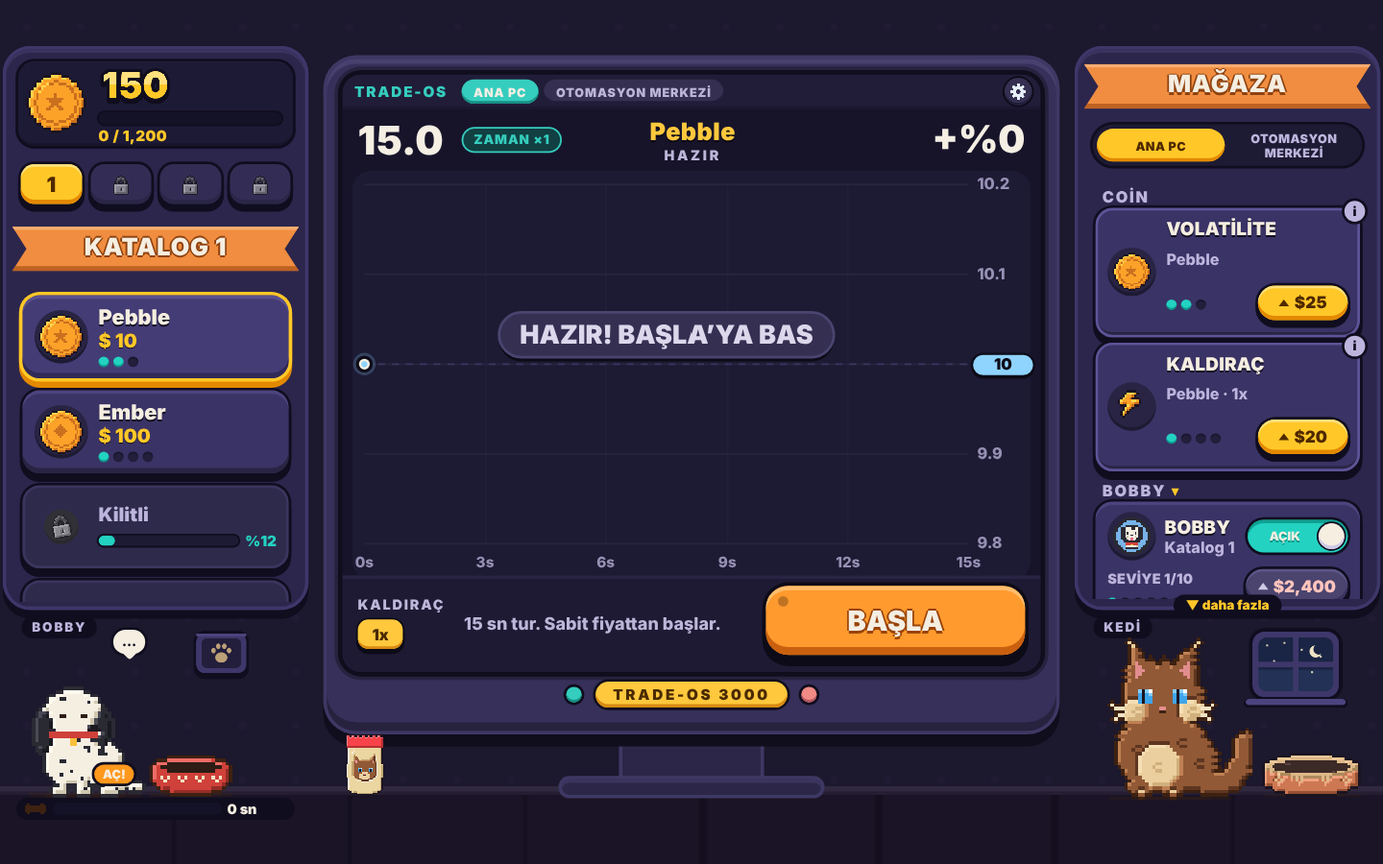
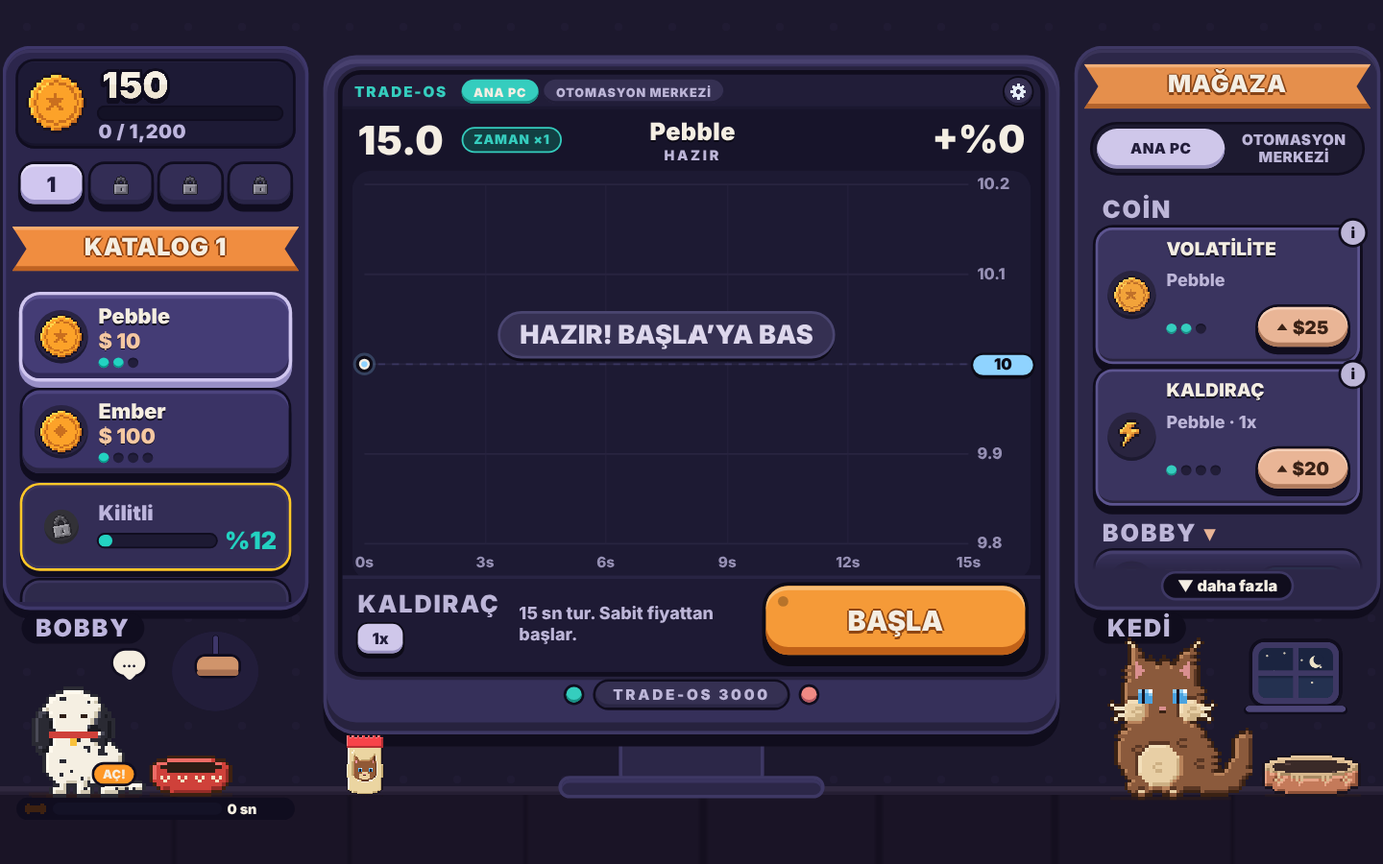
Tasarım Tur2 Adım 2: sol panel + mağaza, Ortak tavsiye 1 uygulandı — smoke 63/63
Claude-Session: https://claude.ai/code/session_01VDVDeJVYoXzWZHeVKGLAfX

diff --git a/index.html b/index.html
@@ -754,6 +754,91 @@ body.rm .pl{animation:none!important}
 #right .sc.bob .br .sg i{flex-basis:11px!important;height:11px!important}#right .sc.bob .br .sg{gap:4px!important}
 #right .sc.bob .br.en .sg{gap:0!important}
 #right .sc.bob .bh .sm{min-width:0}
+
+/* =====================================================================
+   TUR 2 / ADIM 2 — sol panel + mağaza, tek altın kuralı, Ortak tavsiye 1
+   Renk anlamları: ALTIN = yalnız "sıradaki hedef" (sıradaki kilitli coin kartında ince, sabit kenar).
+   ŞEFTALİ = para / alınabilir fiyat. LİLA-KREM = seçili olan (coin kartı, sekme). TURKUAZ = açık / ilerleme / kilit açma.
+   SOLUK = alınamaz. Turuncu (BAŞLA) %10 daha az doygun. Etiketler telefona hazırlık için büyütüldü (≥28 px sahne).
+   ===================================================================== */
+:root{--k-or:#F59A38;--k-ord:#C06118;--k-pe:#E9B596;--k-ped:#AF7A5C;--k-pel:#F5D0B8;--k-pet:#3A2216;--k-mon:#F0C9A8;
+ --k-li:#CFC7EA;--k-lid:#9890C0;--k-lil:#E4DEF5;--k-lit:#221D3A}
+/* bakiye plakası: para krem (altın değil); hedef satırı ikincil */
+#cnx{top:72px!important;font-size:22px!important;color:var(--k-tx2)!important}
+#cbar{top:56px!important}
+/* katalog sekmeleri: seçili = lila-krem */
+.tb.on,#tabs .tb.on{background:var(--k-li)!important;color:var(--k-lit)!important;box-shadow:0 0 0 3px var(--k-ol),0 6px 0 3px var(--k-ol),inset 0 3px 0 var(--k-lil),inset 0 -5px 0 var(--k-lid)!important}
+/* coin kartları */
+.tk.on,body.soft .tk.on{background:#443D6E!important;box-shadow:0 0 0 4px var(--k-li),0 7px 0 4px var(--k-lid),inset 0 4px 0 #5A5288,inset 0 -6px 0 #312B52!important}
+.tk.boss.on{box-shadow:0 0 0 4px var(--k-li),0 7px 0 4px var(--k-lid),inset 0 4px 0 #5D4166,inset 0 -6px 0 #36243C!important}
+.tn .num,#list .tn .num{font-size:24px!important;color:var(--k-mon)!important}
+#list .tk.poor .num{color:var(--k-tx2)!important}
+.tk.lk.nx,body.soft .tk.lk.nx{background:#332E50!important;box-shadow:0 0 0 3px var(--k-au),0 7px 0 3px var(--k-ol),inset 0 0 0 3px #3B3659!important}
+.tk.lk .tn b,#list .tk.lk .tn b{font-size:24px!important}
+.tk .lkp{gap:10px;margin-top:4px}.tk .lkp .lbar{height:14px}.tk .lkp small{font-size:28px;line-height:1;color:var(--k-tq)}
+.tk.lk:not(.nx) img.lkic{opacity:.6}
+/* seviye noktaları */
+.sg.mid i.f,body.soft .sg.mid i.f{background:var(--k-pe)!important}
+/* mağaza başlıkları ve sekmeleri */
+.shd,#right .shd{font-size:28px!important;letter-spacing:2px!important;margin:14px 4px 4px!important}
+.sbt i{color:var(--k-pe)!important}
+#stabs button{height:46px!important;font-size:17px!important}
+#stabs button.on{background:var(--k-li)!important;color:var(--k-lit)!important;box-shadow:inset 0 -4px 0 var(--k-lid)!important}
+.sm .st,body.soft .sm .st{font-size:20px!important}
+/* fiyat hapları: alınabilir = şeftali (canlı), alınamaz = soluk (mevcut [data-dis] stili) */
+#right .go{height:46px!important;font-size:21px!important;background:var(--k-pe)!important;color:var(--k-pet)!important;box-shadow:0 0 0 3px var(--k-ol),0 6px 0 3px var(--k-ol),inset 0 3px 0 var(--k-pel),inset 0 -5px 0 var(--k-ped)!important}
+#right .go:hover{background:#F0C2A6!important}
+#right .go:not([data-dis]):not(.unl):active,#right .go.sq:not(.unl){box-shadow:0 0 0 3px var(--k-ol),0 2px 0 3px var(--k-ol),inset 0 3px 0 var(--k-pel),inset 0 -3px 0 var(--k-ped)!important}
+#right .go i.up{border-bottom-color:var(--k-pet)!important}
+#right .go[data-dis] i.up{border-bottom-color:#CFC9E3!important}
+#right .go.poor span,#right .go.poor:not([data-dis]) span{color:inherit!important}
+#right .go.unl{background:#3FBFB1!important}
+.mx,#right .mx,body.soft .mx{font-size:16px!important;line-height:30px!important}
+.info{width:28px!important;height:28px!important;font-size:17px!important;line-height:28px!important}
+.sw,#right .sw{height:40px!important;font-size:16px!important;line-height:40px!important}
+.sw i{top:5px!important}
+/* Bobby kartı: etiket tam satır, altında noktalar + buton (telefonda büyük etiket sığsın) */
+.br small,#right .sc.bob .br small,body.soft .br small{font-size:28px!important;line-height:1.1!important}
+#right .sc.bob .br{grid-template-rows:auto auto!important;row-gap:8px!important}
+#right .sc.bob .br small{grid-column:1/-1!important;grid-row:1!important}
+#right .sc.bob .br .sg{grid-column:1!important;grid-row:2!important}
+#right .sc.bob .br>.go,#right .sc.bob .br>.mx,#right .sc.bob .br>.pbtn{grid-column:2!important;grid-row:2!important}
+#right .rcb.on{background:#443D6E!important;box-shadow:0 0 0 3px var(--k-li),inset 0 -3px 0 #312B52!important}#right .rcb.on span{color:var(--k-li)!important}
+/* "daha fazla": paneli örtmez — panelin alt kenarının altında durur; liste altta yumuşakça kaybolur */
+#shint,body.soft #shint{bottom:248px!important;padding:0 16px!important;font:900 18px/28px var(--k-fr)!important;color:var(--k-tx)!important;background:var(--k-ol)!important;box-shadow:0 0 0 3px var(--k-rim)!important}
+#shop,body.soft #shop{padding-bottom:30px!important;-webkit-mask-image:linear-gradient(#000 calc(100% - 26px),transparent);mask-image:linear-gradient(#000 calc(100% - 26px),transparent)}
+/* hayvan alanı etiketleri (BOBBY / KEDİ) */
+.botp .cap,body.soft .botp .cap{font:900 28px/36px var(--k-fr)!important;padding:0 16px!important;top:2px!important}
+/* monitör: altın sayısı bire insin (Ortak tavsiye 1 · madde 2) */
+#hN{color:var(--k-tx)!important}
+.chin span{background:#353052!important;color:var(--k-tx2)!important;box-shadow:0 0 0 3px var(--k-ol),inset 0 -4px 0 #2A2644!important}
+#lvr{font-size:28px!important}#lvr span{line-height:1.1}
+#lvr .pbtn.ac{background:var(--k-li)!important;color:var(--k-lit)!important;box-shadow:0 0 0 2px #0D0B17,0 4px 0 2px #0D0B17,inset 0 -3px 0 var(--k-lid)!important}
+#receipt{box-shadow:0 0 0 4px var(--k-rim),inset 0 -6px 0 #1B1830!important}#receipt h3{color:var(--k-pe)!important}
+#toast div{background:var(--k-pe)!important;color:var(--k-pet)!important}
+#tip{box-shadow:0 0 0 3px var(--k-rim)!important}#tip.sl::after,#tip.sr::after{background:var(--k-rim)!important}
+.tile.add{box-shadow:0 0 0 4px var(--k-pe)!important}
+/* ana düğme: turuncu %10 sakin; SAT kârda nane (▲), zararda nötr kart tonu (▼), alarm yok */
+#main{box-shadow:0 0 0 4px #0D0B17,0 9px 0 4px #0D0B17,inset 0 5px 0 #F8BD75,inset 0 -9px 0 var(--k-ord)!important;text-shadow:0 3px 0 #8E4612,2px 0 0 #8E4612,-2px 0 0 #8E4612,0 -2px 0 #8E4612}
+#main:not(:disabled):active,#main.down{box-shadow:0 0 0 4px #0D0B17,0 3px 0 4px #0D0B17,inset 0 5px 0 #F8BD75,inset 0 -5px 0 var(--k-ord)!important}
+#main.sell{background:#5BC49A!important;color:#0E3326!important;text-shadow:none!important;box-shadow:0 0 0 4px #0D0B17,0 9px 0 4px #0D0B17,inset 0 5px 0 #8EDBBC,inset 0 -9px 0 #2E8C68!important}
+#main.sell.dn{background:#3A345F!important;color:var(--k-tx)!important;text-shadow:none!important;box-shadow:0 0 0 4px #0D0B17,0 9px 0 4px #0D0B17,inset 0 5px 0 #4C4577,inset 0 -9px 0 #29243F!important}
+.mbtn.pri{box-shadow:0 0 0 4px var(--k-ol),0 10px 0 4px var(--k-ol),inset 0 5px 0 #F8BD75,inset 0 -9px 0 var(--k-ord)!important}.mbtn.pri:hover{background:#F6A74E!important}
+/* 6'dan çok seviye: noktalar yerine ince ilerleme hapı (taşma yok, göz daha az sayar) */
+#right .sg:not(.vol):has(>i:nth-child(7)){gap:0!important;height:16px!important;padding:3px!important;border-radius:99px;background:#141224!important;box-shadow:0 0 0 2px var(--k-ol)!important;overflow:hidden;min-width:56px;width:100%;box-sizing:border-box}
+#right .sg:not(.vol):has(>i:nth-child(7)) i{flex:1 1 0!important;height:100%!important;border-radius:0!important;background:transparent!important;box-shadow:none!important}
+#right .sg:not(.vol):has(>i:nth-child(7)) i.f{background:var(--k-tq)!important}
+#right .sg:not(.vol):has(>i:nth-child(7)) i.f:first-child{border-radius:99px 0 0 99px!important}
+#right .sc:not(.bob):not(.rcoin) .sm .sg{min-width:0}
+/* Bobby başlığı: "Katalog 1" kesilmesin */
+#right .sc.bob .bh .st{font-size:18px!important}
+#right .sc.bob .bh .sw{width:104px!important}
+/* sağ panel: eski katmandaki saturate(1.15) doygunluğu gizlice artırıyordu — kapatıldı */
+#right{filter:none!important}
+/* Bobby balonu, büyüyen BOBBY etiketinin altına */
+#bbub{top:46px!important}
+/* "daha fazla" için panelin içinde ayrı alt şerit: hiçbir kartı örtmez */
+#shop,body.soft #shop{margin-bottom:36px!important}
 </style><style>/* === TELEFON: hep yatay oyun (dikeyde 90° döndürülür), sayfa kaymaz, çift dokunuşta büyümez === */
 html,body{position:fixed;inset:0;width:100%;height:100%;overflow:hidden;margin:0;overscroll-behavior:none;-webkit-user-select:none;user-select:none;-webkit-touch-callout:none;-webkit-tap-highlight-color:transparent;-webkit-text-size-adjust:100%}
 *{touch-action:manipulation}canvas,img{-webkit-user-drag:none}#list,#shop,.modal .mp,#mb{touch-action:pan-x pan-y;-webkit-overflow-scrolling:touch}
@@ -1093,12 +1178,12 @@ function wallCanvas(side,night,soft,tw){   /* Tur 2: gece oyun odası — yuvarl
  const K=2,c=document.createElement('canvas');c.width=336*K;c.height=200*K;const x=c.getContext('2d');x.scale(K,K);
  const R=(a,b,w,h,r)=>{x.beginPath();x.moveTo(a+r,b);x.arcTo(a+w,b,a+w,b+h,r);x.arcTo(a+w,b+h,a,b+h,r);x.arcTo(a,b+h,a,b,r);x.arcTo(a,b,a+w,b,r);x.closePath()};
  const OLW='#100D1D',RIM='#3E3864',RIMH='#4C4577',RIMD='#2A2545';
- if(!side){const fx=214,fy=26,fw=58,fh=46;   /* Bobby köşesi: pati resmi (balonla çakışmaz) */
-  R(fx-3,fy-3,fw+6,fh+6+4,13);x.fillStyle=OLW;x.fill();R(fx,fy,fw,fh,10);x.fillStyle=RIM;x.fill();R(fx,fy,fw,4,2);x.fillStyle=RIMH;x.fill();
-  R(fx+6,fy+6,fw-12,fh-12,6);x.fillStyle='#231E38';x.fill();
-  x.fillStyle='#B9A07E';x.beginPath();x.ellipse(fx+fw/2,fy+fh/2+5,7,6,0,0,7);x.fill();
-  [[-9,-3],[-3.5,-8],[3.5,-8],[9,-3]].forEach(q=>{x.beginPath();x.ellipse(fx+fw/2+q[0],fy+fh/2+q[1],2.6,3.2,0,0,7);x.fill()});return c}
- const wx=196,wy=24,ww=100,wh=76;   /* kedi köşesi: pencere */
+ if(!side){   /* Bobby köşesi: düz renkli aplik lamba (sabit, glow yok); ışık lekesi duvardan bir kademe açık */
+  x.fillStyle='#221D37';x.beginPath();x.ellipse(236,70,50,46,0,0,7);x.fill();
+  R(233,28,7,28,3);x.fillStyle=OLW;x.fill();R(234,29,5,26,2);x.fillStyle=RIM;x.fill();
+  R(212,50,54,28,12);x.fillStyle=OLW;x.fill();R(215,53,48,22,9);x.fillStyle='#C99572';x.fill();R(215,68,48,7,3);x.fillStyle='#A27156';x.fill();
+  return c}
+ const wx=196,wy=36,ww=100,wh=72;   /* kedi köşesi: pencere */
  R(wx-4,wy-4,ww+8,wh+8,18);x.fillStyle=OLW;x.fill();R(wx,wy,ww,wh,14);x.fillStyle=RIM;x.fill();
  const ix=wx+7,iy=wy+7,iw=ww-14,ih=wh-14;x.save();R(ix,iy,iw,ih,9);x.clip();
  x.fillStyle=night?'#1B2440':'#5E7FA6';x.fillRect(ix,iy,iw,ih);x.fillStyle=night?'#243150':'#7896B8';x.fillRect(ix,iy+ih*.6,iw,ih*.4);
@@ -1272,8 +1357,8 @@ function numTip(u){const v=Number(u)/1e4,fr=u%10000n,full=(u/10000n).toLocaleStr
 const KF='ui-rounded, "SF Pro Rounded", "Nunito", "Varela Round", "Arial Rounded MT Bold", "Trebuchet MS", system-ui, sans-serif';
 function ckCash(txt){const cv=$('#cashv'),x=cv.getContext('2d');let fs=84;x.font='900 '+fs+'px '+KF;while(x.measureText(txt).width>440&&fs>40){fs-=4;x.font='900 '+fs+'px '+KF}
  const w=Math.ceil(x.measureText(txt).width)+24,h=104;if(cv.width!==w||cv.height!==h){cv.width=w;cv.height=h}x.clearRect(0,0,w,h);x.font='900 '+fs+'px '+KF;x.textBaseline='middle';x.lineJoin='round';
- const y=h/2-2;x.lineWidth=14;x.strokeStyle='#100D1D';x.strokeText(txt,12,y+6);x.fillStyle='#100D1D';x.fillText(txt,12,y+6);x.strokeText(txt,12,y);x.fillStyle='#FFC83D';x.fillText(txt,12,y);
- x.save();x.beginPath();x.rect(0,0,w,y-fs*.08);x.clip();x.fillStyle='#FFE08A';x.fillText(txt,12,y);x.restore()}
+ const y=h/2-2;x.lineWidth=14;x.strokeStyle='#100D1D';x.strokeText(txt,12,y+6);x.fillStyle='#100D1D';x.fillText(txt,12,y+6);x.strokeText(txt,12,y);x.fillStyle='#EDE5D6';x.fillText(txt,12,y);
+ x.save();x.beginPath();x.rect(0,0,w,y-fs*.08);x.clip();x.fillStyle='#F6F0E6';x.fillText(txt,12,y);x.restore()}
 /* para sayacı: kısa count-up */
 let cashD=null,cashAf=0,cashLast='';
 function cashAnim(){cashAf=0;const t=Number(S.cash);cashD=t;   /* v46: para anında güncellenir */
@@ -1289,8 +1374,8 @@ function renderSide(){const k=G.cat;
  const tabs=[0,1,2,3].map(t=>S.co[t]?`<button class="tb ${t===G.cat?'on':''} ${G.unl===t?'unl':''}" data-cat="${t}">${t+1}</button>`:`<button class="tb lk" disabled aria-label="Kilitli katalog">${icn('lock',2)}</button>`).join('');
  let h='';
  for(let i=k*5;i<k*5+5;i++){const c=COINS[i],op=S.open[i];
-  if(!op){let lp='';if(i===S.open.indexOf(0)&&S.co[c.cat]){const pr=Math.floor(Math.min(100,Number((S.tot||0n)*100000n/(c.p*UNLK[c.cat]))/10));lp=`<span class="lkp"><span class="lbar"><i style="width:${Math.max(4,pr)}%"></i></span><small>%${pr}</small></span>`}
-  h+=`<div class="tk lk ${c.boss?'boss':''}"><img class="ci lkic" src="${ICN.lock}" alt=""><div class="tn"><b>Kilitli</b>${lp}</div></div>`;continue}   /* v52: yalnız kilit + Kilitli */
+  if(!op){let lp='',nx='';if(i===S.open.indexOf(0)&&S.co[c.cat]){nx=' nx';const pr=Math.floor(Math.min(100,Number((S.tot||0n)*100000n/(c.p*UNLK[c.cat]))/10));lp=`<span class="lkp"><span class="lbar"><i style="width:${Math.max(4,pr)}%"></i></span><small>%${pr}</small></span>`}
+  h+=`<div class="tk lk ${c.boss?'boss':''}${nx}"><img class="ci lkic" src="${ICN.lock}" alt=""><div class="tn"><b>Kilitli</b>${lp}</div></div>`;continue}   /* v52: yalnız kilit + Kilitli */
   const mx=S.cl[i]===c.max;
   h+=`<div class="tk ${i===G.ci?'on':''} ${c.boss?'boss':''}" data-i="${i}">${i===G.ci?`<img class="ptr" src="${ICN.arrow}" alt="">`:''}<img class="ci" src="${ICONS[i]}" alt=""><div class="tn"><b>${c.n}${mx?' <img class="ic" src="'+ICN.star+'" width="22" height="22" alt="">':''}</b><span class="num">$ ${cp(c.p)}</span>${seg(S.cl[i],c.max)}</div>${c.boss?'<em class="bb">BOSS</em>':''}</div>`}
  const key=tabs+h+G.ci;if(key!==SD){SD=key;$('#tabs').innerHTML=tabs;$('#list').innerHTML=h;$('#sign').textContent=CATN[k];fitPass()}}
@@ -1618,7 +1703,7 @@ const RSPR={};const rSpr=(i,fr)=>RSPR[i+'_'+fr]||(RSPR[i+'_'+fr]=render(robotGri
 function drawTile(i,now){const cv=$('#tc'+i);if(!cv)return;const tile=cv.parentNode,n=S.rb.length;tile.className='tile'+(i===n?' add':i>n?' lock':'');
  const d=window.devicePixelRatio||1,r=cv.getBoundingClientRect(),W=tile.offsetWidth||200,H=tile.offsetHeight||190,w=Math.max(8,Math.round(r.width*d)),hh=Math.max(8,Math.round(r.height*d));if(cv.width!==w||cv.height!==hh){cv.width=w;cv.height=hh}
  const x=cv.getContext('2d'),k=cv.width/W;x.setTransform(k,0,0,k,0,0);x.fillStyle='#1E1A35';x.fillRect(0,0,W,H);x.textBaseline='middle';x.textAlign='center';
- if(i>=n){if(i===n&&n<RMAX){const ok=afford(RSLOT[n]);x.fillStyle='#FFC83D';x.font='900 46px '+KF;x.fillText('+1',W/2,H/2-26);x.font='900 20px '+KF;x.fillText(TT('ROBOT EKLE'),W/2,H/2+10);x.font='900 20px '+KF;x.fillStyle=ok?'#FFC83D':'#F2A6A0';x.fillText('$'+cp(RSLOT[n]),W/2,H/2+34)}
+ if(i>=n){if(i===n&&n<RMAX){const ok=afford(RSLOT[n]);x.fillStyle='#E9B596';x.font='900 46px '+KF;x.fillText('+1',W/2,H/2-26);x.font='900 20px '+KF;x.fillText(TT('ROBOT EKLE'),W/2,H/2+10);x.font='900 20px '+KF;x.fillStyle=ok?'#F0C9A8':'#BDB6D8';x.fillText('$'+cp(RSLOT[n]),W/2,H/2+34)}
   else{x.fillStyle='#5E5888';x.font='900 16px '+KF;x.fillText(TT('BOŞ BÖLME'),W/2,H/2)}x.textAlign='left';return}
  const R=S.rb[i],rt=RBT[i],c=COINS[R.ci],fr=rt?Math.floor(now/420+i)%2:0;x.textAlign='left';x.imageSmoothingEnabled=false;x.drawImage(rSpr(i%6,fr),4,4,30,30);
  x.fillStyle='#FFC83D';x.font='900 15px '+KF;x.fillText('ROBOT-'+(i+1),38,12);x.fillStyle='#BDB6D8';x.font='800 14px '+KF;x.fillText(TT(c.n)+' · '+2**(R.v-1)+'x',38,27);
@@ -1844,7 +1929,7 @@ const I18N={en:{
  "Bobby'nin kemik süresini uzatır.":"Extends Bobby's bone time.",'Tur bitince yenisini kendisi başlatır.':'Starts a new round when one ends.','Oyunu hızlandırır; istediğin an kapatabilirsin.':'Speeds up the game; turn it off anytime.',
  'Robotların otomatik işlem yaptığı merkezi açar.':'Opens the center where robots trade automatically.','Daha büyük ekranlı yeni bilgisayar (görsel yükseltme).':'A new computer with a bigger screen (visual upgrade).','Final: kedinin kabına sürüklenince oyun biter.':"Final: the game ends when dragged to the cat's bowl.",
  'Otomatik işlem yapan yeni bir robot ekler.':'Adds a new robot that trades automatically.','Kedi maması: kaba sürükle, 4 sn tut, +$2.':'Cat food: drag to the bowl, hold 4 s, +$2.','Kemik ver: tıkla ya da kaba sürükle.':'Give bone: click or drag to the bowl.',
- 'Oyna':'Play',"10$ biriktirince Pebble ile ilk trade'ini yapabilirsin. Devam etmek için tıkla":'Save $10 and you can make your first trade with Pebble. Click to continue',"Pebble coinini almak için 10$'a ihtiyacın var. Beni beslemeye devam et, para biriktir! (Yatırım tavsiyesi değildir, miyav.) Devam etmek için tıkla":'You need $10 to buy the Pebble coin. Keep feeding me and save up! (Not investment advice, meow.) Click to continue','Yaşasın! Artık Pebble coinini alabilirsin.':'Yay! Now you can buy the Pebble coin.',"Ama dikkatli ol, coin piyasası biraz canlıdır! BAŞLA'ya bas; fiyat dipteyken AL, tepedeyken SAT. Devam etmek için tıkla":'But be careful, the coin market is a bit lively! Press START; BUY at the dip, SELL at the top. Click to continue','Merak etme, onu sakinleştirmenin bir yolu var… (Devam etmek için tıkla)':'Don\'t worry, there is a way to calm it down… (Click to continue)','İşte mağaza!':'Here is the shop!','VOLATİLİTE seviyesini artırdıkça grafikteki dönüm noktaları azalır, grafik sakinleşir ve doğru anı yakalamak kolaylaşır. KALDIRAÇ seviyesini artırınca kârın da zararın da kaldıraç katı kadar büyür. Devam etmek için tıkla':'Raising the VOLATILITY level reduces the turning points, so the chart calms down and timing gets easier. Raising LEVERAGE multiplies both profit and loss by the leverage. Click to continue','Seviye arttıkça dönüm noktası azalır, grafik sakinleşir.':'Higher level means fewer turning points, a calmer chart.','Kilitli':'Locked','Burası coin piyasası!':'This is the coin market!','Buradaki coinleri alıp satarak daha çok para kazanabilirsin. (Yatırım tavsiyesi değildir, miyav.) Devam etmek için tıkla':'Buy and sell coins here to grow your in-game cash. (Not investment advice, meow.) Click to continue','Grafik biraz agresif mi geldi?':'Was the chart a bit aggressive?','İşte mağaza! Buradan coinin volatilitesini ve kaldıracını artırabilirsin. Devam etmek için tıkla':'Here is the shop! You can raise the coin\'s volatility and leverage here. Click to continue','Paketi tutup kabımın üstüne sürükle, bırak ve biraz bekle. Her mamada para kazanırsın; 5$ kâr edince bilgisayar düzelir.':'Drag the bag over my bowl, drop it and wait a bit. You earn money each time; at $5 profit the computer gets fixed.','Mama paketini al ve kabıma dök!':'Grab the food bag and pour it into my bowl!','Paketi tutup kabımın üstüne sürükle, bırak ve biraz bekle. Her mamada para kazanırsın; 10$ biriktirince bilgisayarı onarabilirsin.':'Drag the bag over my bowl, drop it and wait a bit. You earn money each time; with $10 you can repair the computer.','BİLGİSAYARI ONAR':'REPAIR COMPUTER','Bozuk ekranı tamir et':'Fix the broken screen','Miyav… Çok açım!':'Meow… I am so hungry!','Karnım guruldiyor… Beni besler misin? (Devam etmek için herhangi bir yere tıkla)':'My tummy is rumbling… Will you feed me? (Click anywhere to continue)','Şu mama paketini al!':'Grab that food bag!','Paketi tut ve sürükle.':'Hold the bag and drag it.','…ve kabıma dök!':'…and pour it into my bowl!','Paketi kabımın üstüne bırak ve biraz bekle. Her mamada para kazanırsın; 10$ biriktirince bilgisayarı onarabilirsin.':'Drop the bag over my bowl and wait a bit. You earn money each time; with $10 you can repair the computer.','Miyav! Bilgisayar düzeldi.':'Meow! The computer is fixed.',"Artık trade yapabilirsin: fiyat dipteyken AL, tepedeyken SAT. Pebble'ı oynamak için 10$ gerekir. Devam etmek için tıkla":'Now you can trade: BUY at the dip, SELL at the top. You need $10 to play Pebble. Click to continue','Miyav! Bilgisayarı açtım.':'Meow! I turned on the computer.',"Pebble ile ilk trade'ini yap: fiyat dipteyken AL, tepedeyken SAT. Devam etmek için tıkla":'Make your first trade with Pebble: BUY at the dip, SELL at the top. Click to continue','Miyav… Karnım çok aç!':'Meow… I am so hungry!','Sol alttaki mama paketini kabıma sürükle. Her mamada kâr edersin; 15$ kâr edince bilgisayarı açarım. Devam etmek için tıkla':'Drag the food bag at the bottom left to my bowl. You profit each time; at $15 profit I will turn on the computer. Click to continue','ANA PC':'MAIN PC','Müzik':'Music','OTO-TUR AÇIK':'AUTO-ROUND ON','OTO-TUR KAPALI':'AUTO-ROUND OFF','DURDURULDU':'STOPPED','ROBOT COİNİ':'ROBOT COIN','Tüm robotlar bu coinde işlem yapar':'All robots trade this coin','Doyan hayvanlar':'Fed animals','Aç hayvanların üstüne mama dök! Basılı tut: daha bol döker.':'Pour food onto hungry animals! Hold to pour more.','Hav hav! Karnımız tok, sağ ol!':'Woof woof! Our bellies are full, thank you!','Teşekkürler! Bütün sokak hayvanlarını doyurdun.':'Thank you! You fed all the street animals.',"Bobby'yi beslemediğin için küstü ve gitti…":'Bobby got upset because you didn\'t feed him, and left…','Mağazadan yeniden sahiplenebilirsin. Devam etmek için tıkla':'You can adopt him again in the shop. Click to continue','OTOMASYON MERKEZİ':'AUTOMATION CENTER','Robot merkezi':'Robot center','Çıkış':'Quit Game','Geri':'Back','Görüşürüz!':'See you!','Menüye dön':'Back to menu','Ses':'Sound','Kedi Maması':'Cat Food','Sabit fiyattan başlar.':'Starts at a fixed price.','Ayarlar ve işlem geçmişi':'Settings and trade history',
+ 'Oyna':'Play','AL ·':'BUY ·','SAT ·':'SELL ·',"10$ biriktirince Pebble ile ilk trade'ini yapabilirsin. Devam etmek için tıkla":'Save $10 and you can make your first trade with Pebble. Click to continue',"Pebble coinini almak için 10$'a ihtiyacın var. Beni beslemeye devam et, para biriktir! (Yatırım tavsiyesi değildir, miyav.) Devam etmek için tıkla":'You need $10 to buy the Pebble coin. Keep feeding me and save up! (Not investment advice, meow.) Click to continue','Yaşasın! Artık Pebble coinini alabilirsin.':'Yay! Now you can buy the Pebble coin.',"Ama dikkatli ol, coin piyasası biraz canlıdır! BAŞLA'ya bas; fiyat dipteyken AL, tepedeyken SAT. Devam etmek için tıkla":'But be careful, the coin market is a bit lively! Press START; BUY at the dip, SELL at the top. Click to continue','Merak etme, onu sakinleştirmenin bir yolu var… (Devam etmek için tıkla)':'Don\'t worry, there is a way to calm it down… (Click to continue)','İşte mağaza!':'Here is the shop!','VOLATİLİTE seviyesini artırdıkça grafikteki dönüm noktaları azalır, grafik sakinleşir ve doğru anı yakalamak kolaylaşır. KALDIRAÇ seviyesini artırınca kârın da zararın da kaldıraç katı kadar büyür. Devam etmek için tıkla':'Raising the VOLATILITY level reduces the turning points, so the chart calms down and timing gets easier. Raising LEVERAGE multiplies both profit and loss by the leverage. Click to continue','Seviye arttıkça dönüm noktası azalır, grafik sakinleşir.':'Higher level means fewer turning points, a calmer chart.','Kilitli':'Locked','Burası coin piyasası!':'This is the coin market!','Buradaki coinleri alıp satarak daha çok para kazanabilirsin. (Yatırım tavsiyesi değildir, miyav.) Devam etmek için tıkla':'Buy and sell coins here to grow your in-game cash. (Not investment advice, meow.) Click to continue','Grafik biraz agresif mi geldi?':'Was the chart a bit aggressive?','İşte mağaza! Buradan coinin volatilitesini ve kaldıracını artırabilirsin. Devam etmek için tıkla':'Here is the shop! You can raise the coin\'s volatility and leverage here. Click to continue','Paketi tutup kabımın üstüne sürükle, bırak ve biraz bekle. Her mamada para kazanırsın; 5$ kâr edince bilgisayar düzelir.':'Drag the bag over my bowl, drop it and wait a bit. You earn money each time; at $5 profit the computer gets fixed.','Mama paketini al ve kabıma dök!':'Grab the food bag and pour it into my bowl!','Paketi tutup kabımın üstüne sürükle, bırak ve biraz bekle. Her mamada para kazanırsın; 10$ biriktirince bilgisayarı onarabilirsin.':'Drag the bag over my bowl, drop it and wait a bit. You earn money each time; with $10 you can repair the computer.','BİLGİSAYARI ONAR':'REPAIR COMPUTER','Bozuk ekranı tamir et':'Fix the broken screen','Miyav… Çok açım!':'Meow… I am so hungry!','Karnım guruldiyor… Beni besler misin? (Devam etmek için herhangi bir yere tıkla)':'My tummy is rumbling… Will you feed me? (Click anywhere to continue)','Şu mama paketini al!':'Grab that food bag!','Paketi tut ve sürükle.':'Hold the bag and drag it.','…ve kabıma dök!':'…and pour it into my bowl!','Paketi kabımın üstüne bırak ve biraz bekle. Her mamada para kazanırsın; 10$ biriktirince bilgisayarı onarabilirsin.':'Drop the bag over my bowl and wait a bit. You earn money each time; with $10 you can repair the computer.','Miyav! Bilgisayar düzeldi.':'Meow! The computer is fixed.',"Artık trade yapabilirsin: fiyat dipteyken AL, tepedeyken SAT. Pebble'ı oynamak için 10$ gerekir. Devam etmek için tıkla":'Now you can trade: BUY at the dip, SELL at the top. You need $10 to play Pebble. Click to continue','Miyav! Bilgisayarı açtım.':'Meow! I turned on the computer.',"Pebble ile ilk trade'ini yap: fiyat dipteyken AL, tepedeyken SAT. Devam etmek için tıkla":'Make your first trade with Pebble: BUY at the dip, SELL at the top. Click to continue','Miyav… Karnım çok aç!':'Meow… I am so hungry!','Sol alttaki mama paketini kabıma sürükle. Her mamada kâr edersin; 15$ kâr edince bilgisayarı açarım. Devam etmek için tıkla':'Drag the food bag at the bottom left to my bowl. You profit each time; at $15 profit I will turn on the computer. Click to continue','ANA PC':'MAIN PC','Müzik':'Music','OTO-TUR AÇIK':'AUTO-ROUND ON','OTO-TUR KAPALI':'AUTO-ROUND OFF','DURDURULDU':'STOPPED','ROBOT COİNİ':'ROBOT COIN','Tüm robotlar bu coinde işlem yapar':'All robots trade this coin','Doyan hayvanlar':'Fed animals','Aç hayvanların üstüne mama dök! Basılı tut: daha bol döker.':'Pour food onto hungry animals! Hold to pour more.','Hav hav! Karnımız tok, sağ ol!':'Woof woof! Our bellies are full, thank you!','Teşekkürler! Bütün sokak hayvanlarını doyurdun.':'Thank you! You fed all the street animals.',"Bobby'yi beslemediğin için küstü ve gitti…":'Bobby got upset because you didn\'t feed him, and left…','Mağazadan yeniden sahiplenebilirsin. Devam etmek için tıkla':'You can adopt him again in the shop. Click to continue','OTOMASYON MERKEZİ':'AUTOMATION CENTER','Robot merkezi':'Robot center','Çıkış':'Quit Game','Geri':'Back','Görüşürüz!':'See you!','Menüye dön':'Back to menu','Ses':'Sound','Kedi Maması':'Cat Food','Sabit fiyattan başlar.':'Starts at a fixed price.','Ayarlar ve işlem geçmişi':'Settings and trade history',
  'Bilgisayar onarıldı · Pebble açıldı':'Computer repaired · Pebble unlocked','Bobby sahiplenildi':'Bobby adopted','Oto-Tur satın alındı':'Auto-Round bought','Bilgisayar Seviye 2':'Computer Level 2','Bilgisayar onarıldı':'Computer repaired','Kedi Maması (Final) satın alındı':'Cat Food (Final) bought','Otomasyon Merkezi':'Automation Center','Bobby Katalog':'Bobby Catalog','Kemik':'Bone','Kapasite':'Capacity','Robot':'Robot','ROBOT DEPOSU':'ROBOT DEPOT','Fiyat':'Price','Volatilite':'Volatility','dönüm noktası':'turning points','Sen ×':'You ×','Bobby ×':'Bobby ×','· Nakit':'· Cash','· Bobby':'· Bobby'},
  pat:[[/^KATALOG (\d+)$/,'CATALOG $1'],[/^Katalog (\d+)$/,'Catalog $1'],[/^SONRAKİ COİN %(\d+)$/,'NEXT COIN %$1'],[/^ZAMAN ×(\d+)$/,'TIME ×$1'],[/^SEVİYE (\d+)\/(\d+)$/,'LEVEL $1/$2'],[/^KALDIRAÇ (\d+)x$/,'LEVERAGE $1x'],
   [/^(\d+) sn \/ kemik · Lv(\d+)$/,'$1 s / bone · Lv$2'],[/^([\d.]+) dk · Lv(\d+)$/,'$1 min · Lv$2'],[/^([\d.]+) sn$/,'$1 s'],[/^(\d+)x açık$/,'$1x on'],[/^(\d+)x kapalı$/,'$1x off'],[/^DOĞRULUK (\d+)\/(\d+)$/,'ACCURACY $1/$2'],[/^KALDIRAÇ (\d+)\/(\d+)$/,'LEVERAGE $1/$2'],
@@ -2211,7 +2296,7 @@ function ui(){if(!S.hintOff&&(S.open[1]||S.tot>=D(50)))S.hintOff=1;if(S.set.test
  if(S.over||G.st==='over'){txt='OYUN BİTTİ';dis=true}
  else if(G.st==='ready'){const ok=S.cash>=c.p;dis=!ok;note=S.cash<c.p?(G.ci===0&&!S.hintOff?'En az $'+cp(c.p)+' gerek. Kedi mamasını kaba götür!':'Yetersiz bakiye · Gerekli: $'+cp(c.p)):'15 sn tur'+(spd()>1?' · oyun saati ×'+spd():'')+'. Sabit fiyattan başlar.'}
  else if(G.st==='active'){if(!G.pt){const ok=S.cash>=stakeOf('player',G.ci);txt='AL · '+fm(G.curU)+(G.lev>1?' ('+G.lev+'x)':'');cls='buy';dis=!ok;note=G.msg||(ok?'Pozisyon: $'+cp(stakeOf('player',G.ci))+' (katalog fiyatı).':'Yeterli nakit yok.')}
-  else{const tr=G.pt,v=eq(tr,G.curU);txt='SAT · '+fm(v)+' ('+pcs(Number(v-tr.st)/Number(tr.st))+')';cls='sell '+(v>=tr.st?'up':'dn');note=(tr.lv>1?'Likidasyon: '+fm(tr.b*BigInt(tr.lv-1)/BigInt(tr.lv))+'. ':'')+"15. sn'de otomatik satılır."}}
+  else{const tr=G.pt,v=eq(tr,G.curU);txt='SAT · '+fm(v)+' ('+(v>=tr.st?'▲ ':'▼ ')+pcs(Number(v-tr.st)/Number(tr.st))+')';cls='sell '+(v>=tr.st?'up':'dn');note=(tr.lv>1?'Likidasyon: '+fm(tr.b*BigInt(tr.lv-1)/BigInt(tr.lv))+'. ':'')+"15. sn'de otomatik satılır."}}
  else{txt='YENİ TUR';note=S.auto&&S.autoOn&&S.cash>=c.p?'Oto-Tur: '+(+(OTD[S.al-1]/spd()).toFixed(2))+' sn sonra yeni tur…':''}
  if(M.className!==cls)M.className=cls;if(lab.textContent!==txt){lab.textContent=txt;let s=36;lab.style.fontSize='';M.style.fontSize='';while(M.scrollWidth>M.clientWidth&&s>18){s--;M.style.fontSize=s+'px'}}M.disabled=dis;
  $('#led').classList.toggle('on',!!(S.auto&&S.autoOn));
@@ -2246,8 +2331,8 @@ function drawChart(now){const cv=$('#cv'),x=cv.getContext('2d'),c=COINS[G.ci];x.
  x.setLineDash([8,8]);x.lineWidth=2;x.strokeStyle='#3A3660';x.beginPath();x.moveTo(L,Y(sp));x.lineTo(R,Y(sp));x.stroke();x.setLineDash([]);
  const pos=G.pt&&G.st==='active'?G.pt:null,ref=pos?pos.bf:null,up=pos?G.cur>=ref:true,cc=pos?(up?'#5FE0B8':'#F08A84'):'#8FD3FF',cg=pos?(up?'95,224,184':'240,138,132'):'143,211,255';
  /* alış fiyatı çizgisi (pozisyon açıkken): kâr/zarar referansı */
- if(pos){const by=Y(ref);x.setLineDash([10,7]);x.lineWidth=2.5;x.strokeStyle='#FFC83D';x.beginPath();x.moveTo(L,by);x.lineTo(R,by);x.stroke();x.setLineDash([]);
-  const lb=LANG==='en'?'BUY':'ALIŞ';x.font='900 14px '+KF;const w=x.measureText(lb).width+18,ly=Math.min(B-12,Math.max(T+12,by));const lx=R-w-8,lyy=ly-30<T?ly+18:ly-18;rr(x,lx,lyy-12,w,24,12);x.fillStyle='#FFC83D';x.fill();x.lineWidth=2.5;x.strokeStyle=OLC;x.stroke();x.fillStyle='#4A2A00';x.fillText(lb,lx+9,lyy+1)}
+ if(pos){const by=Y(ref);x.setLineDash([9,7]);x.lineWidth=2;x.strokeStyle='#A89FC8';x.beginPath();x.moveTo(L,by);x.lineTo(R,by);x.stroke();x.setLineDash([]);
+  const lb=LANG==='en'?'BUY':'ALIŞ';x.font='900 14px '+KF;const w=x.measureText(lb).width+18,ly=Math.min(B-12,Math.max(T+12,by));const lx=R-w-8,lyy=ly-30<T?ly+18:ly-18;rr(x,lx,lyy-12,w,24,12);x.fillStyle='#353052';x.fill();x.lineWidth=2;x.strokeStyle=OLC;x.stroke();x.fillStyle='#D3CCEA';x.fillText(lb,lx+9,lyy+1)}
  let ex=X(0),ey=Y(sp);
  if(act){const pts=ys.map((v,i)=>[X(tn*i/N),Y(v)]);ex=pts[pts.length-1][0];ey=pts[pts.length-1][1];
   const path=()=>{x.beginPath();pts.forEach((p,i)=>i?x.lineTo(p[0],p[1]):x.moveTo(p[0],p[1]))};

diff --git a/docs/tasarim/canli/tur-2.md b/docs/tasarim/canli/tur-2.md
@@ -67,3 +67,45 @@ Plan (adımlar): 1) Koyu arka plan + oda; 2) Sol panel + mağaza kartları; 3) M
 4. BAŞLA/SAT turuncusunda doygunluğu yaklaşık %8-10 azalt; boyut ve konum aynı kalsın, animasyon/yanıp sönme yok.
 5. Telefonda tüm etiketler (KALDIRAÇ, BOBBY, KEDİ, COİN, SEVİYE) en az 12 px, kontrast en az 4.5:1; kilitli kartın "%12" ilerlemesi en az 12 px ve çubuk yüksekliği en az 6 px olsun (A'nın merak isteği).
 6. Odaya düz renkli, sabit, küçük bir lamba lekesi eklenebilir (parlaklığı duvardan en fazla bir kademe açık, glow ve animasyon yok).
+
+## Adım 2 — Tasarımcı: Danışma 2
+
+**Renk dili (her rengin tek bir anlamı var)**
+- **Altın:** yalnızca "sıradaki hedef". Sol listede sıradaki kilitli coin kartının ince (3 px) ve sabit kenarı. Ekrandaki tek altın bu.
+- **Şeftali:** para ve alınabilir fiyat (fiyat hapları, coin fiyat yazısı).
+- **Lila-krem:** seçili olan (coin kartı halkası, katalog sekmesi, ANA PC/OTOMASYON sekmesi, kaldıraç "1x").
+- **Turkuaz:** açık / ilerleme / kilit açma (toggle, ilerleme çubukları, kilit açma hapı).
+- **Soluk:** alınamaz (soluk mor hap, açık gri yazı).
+
+**Ne yaptım**
+- **Sol panel:** Bakiye artık altın değil, krem; hedef satırı ("0 / 1,200") ikincil renkte ve 22 px. Seçili katalog sekmesi ve seçili coin kartı lila-krem. Coin fiyatları şeftali-krem. Sıradaki kilitli kartta ince altın kenar ve büyük turkuaz "%12" (28 px) var; çubuk 14 px (telefonda yaklaşık 6 px). Diğer kilitli kartların kilidi daha soluk.
+- **Mağaza:** Fiyat hapları alınabilirken canlı şeftali (46 px yüksek, 21 px yazı), alınamazken soluk. Hapta mercan "yetersiz" yazısı kalmadı. 6'dan fazla seviyesi olan ürünlerde (Bobby SEVİYE 1/10, KEMİK) noktalar yerine ince turkuaz ilerleme hapı var; noktalar artık fiyat hapının altına taşmıyor. Bobby kartında etiket tam satıra geçti, altında ilerleme ve buton yan yana. "Katalog 1" artık kesilmiyor.
+- **"▼ daha fazla":** Panelin içinde kendi alt şeridine yerleşti, hiçbir kartı örtmüyor. Liste altta yumuşakça soluyor (maske; glow değil). Sona kaydırınca şerit gizleniyor.
+- **Etiketler (telefona hazırlık):** COİN/BOBBY başlıkları, SEVİYE/KALDIRAÇ/ENERJİ satırları, BOBBY/KEDİ etiketleri ve monitördeki KALDIRAÇ 28 px sahne boyutunda. Bugünkü telefon ölçeğinde (0,425) bu yaklaşık 11,9 px ediyor. Adım 4'teki fit() iyileştirmesiyle ≥12 px olacak. Kontrast panele karşı 7,5:1, koyu etiket hapında 9,9:1.
+- **Eski bir doygunluk artırıcı kaldırıldı:** Sağ panelde eski bir katmandan kalma `saturate(1.15)` filtresi vardı ve mağazayı gizlice %15 daha doygun gösteriyordu.
+- **Hata düzeltmesi:** EN'de ana düğme "AL · $9" / "SAT · …" diye Türkçe kalıyordu. Artık "BUY · …" / "SELL · …".
+
+**Ortak tavsiye 1'i nasıl uyguladım**
+1. **Zararda SAT:** Nötr kart tonu (#3A345F, doygunluk %29), krem yazı, yalnız küçük "▼ −%x". Kârda nane yeşili (#5BC49A) ve "▲ +%x". İkisi de altın değil, yanıp sönmüyor.
+2. **Fiyat hapları:** Altın değil. Alınabilirken sakin şeftali (#E9B596, doygunluk ~%62; eski altın %100'dü), alınamazken soluk. Tavsiyedeki "tek parlak sarı = seçili kart" yerine Yönetici'nin ve Tur 1 Ortak Karar'ın kuralını uyguladım: tek altın sıradaki kilitli kartta, seçili kart lila-krem. Monitördeki altınlar da kaldırıldı: coin adı krem, "TRADE-OS 3000" plakası soluk, kaldıraç 1x lila, tur özeti kenarı nötr, "+1 ROBOT EKLE" şeftali.
+3. **ALIŞ çizgisi:** Sönük lila-gri (#A89FC8), 2 px, kesikli. Etiket küçük koyu hap, açık lila yazı.
+4. **Turuncu:** Doygunluk %10 azaldı (#FF9A2E → #F59A38; kenar ve üst ışık da buna göre). Boyut ve konum aynı.
+5. **Telefon etiketleri:** 28 px sahne boyutu (bugün yaklaşık 11,9 px). Kontrast ≥7:1. Kilitli kartın %'si 28 px, çubuğu 14 px (telefonda yaklaşık 6 px). Tam 12 px Adım 4'te fit() ile tamamlanacak.
+6. **Lamba:** Bobby köşesinin duvarında düz renkli, sabit bir aplik. Işık lekesi duvardan tam bir kademe açık (#221D37 / duvar #1C182D); glow ve animasyon yok. Eski pati resmi kaldırıldı; köşe sadeleşti, balonla çakışma da bitti. Kedinin penceresi "daha fazla" hapına yer açmak için biraz aşağı indi.
+
+**Henüz yapılmadı (Adım 3)**
+- Zarardayken büyük yüzde (−%24) ve grafik çizgisi hâlâ mercan. Tur 1'deki karar "zarar = turuncu/kehribar" diyordu.
+- Robot bölmelerindeki "BOŞ BÖLME" yazısı soluk.
+
+**Bakılacak görüntüler**
+- `docs/tasarim/son/desk_tr_ana.png`: tek altın (Kilitli %12), lila seçili, şeftali haplar, lamba, "daha fazla" şeridi
+- `docs/tasarim/son/desk_tr_islem.png` ve `tel_tr_islem.png`: nötr SAT ▼ (zararda), sönük ALIŞ çizgisi
+- `docs/tasarim/son/tel_tr_ana.png`: telefon yatay görünüm
+- `docs/tasarim/son/desk_tr_oto.png`: şeftali "+1 ROBOT EKLE", soluk hap
+- `docs/tasarim/son/desk_en_ana.png`: EN
+
+**Psikologlara sorular**
+1. Kârdaki SAT nane yeşili (▲), AL ise turkuaz. Bu iki ton yeterince ayrışıyor mu, yoksa AL'ı BAŞLA gibi turuncu mu yapalım (BAŞLA → AL aynı birincil renk, SAT kâr nane / zarar nötr)?
+2. 28 px etiketler masaüstünde biraz "kalın" duruyor (KALDIRAÇ, SEVİYE 1/10). Masaüstünde 24 px'e inip telefonda fit() ile ≥12 px'i sağlamak kabul edilebilir mi?
+3. Şeftali haplar ile turuncu KATALOG/MAĞAZA afişleri yakın tonlarda. Afişleri daha nötr bir tona (ör. koyu kart üstünde krem yazı ve ince turuncu kenar) almak ister misiniz?
+4. Altın neden seçili kartta değil de sıradaki kilitli kartta? Tur 1 kuralı ve Yönetici böyle istedi. Psikolog A'nın "merak" isteğine de uyuyor. Seçili kartın lila-krem halkası yeterince "seçili" okunuyor mu?
